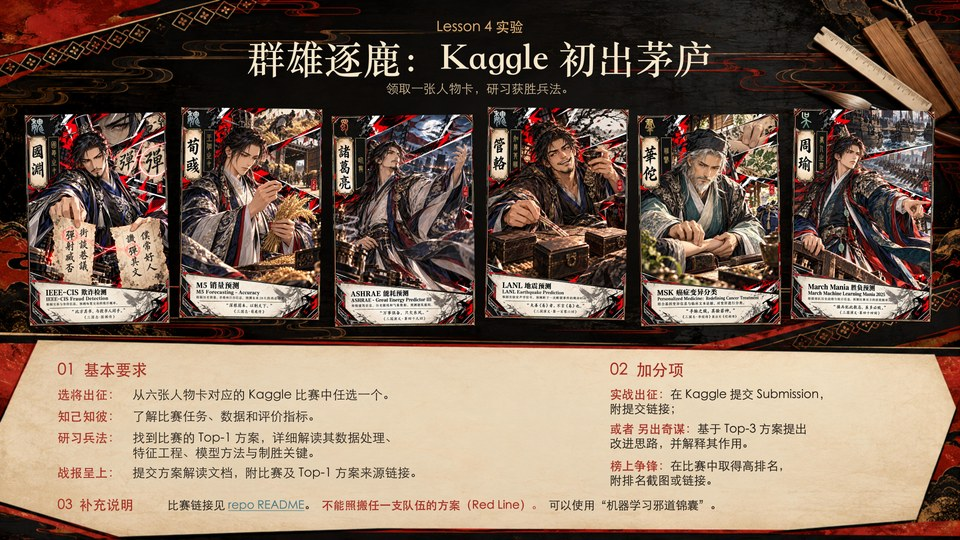
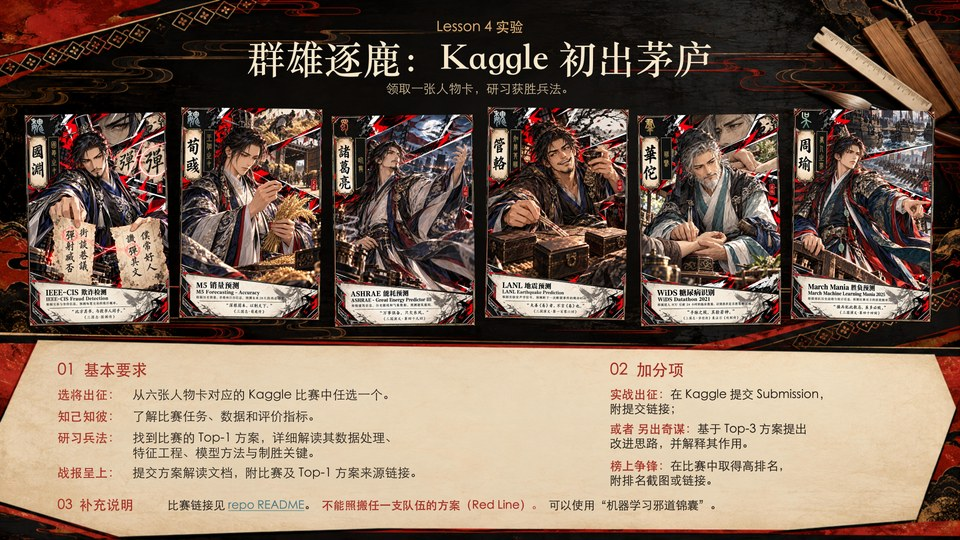
更新 Lesson 4 WiDS 海报并恢复实验入口

Changed region(s): [[0.6562, 0.2074, 0.8125, 0.5926]]

diff --git a/README.md b/README.md
@@ -52,7 +52,6 @@
         <p><strong>基本要求</strong><br>基于公开数据集，分别复现任意 4 个锦囊，比较使用前后的实验结果。</p>
       </td>
     </tr>
-    <!-- Lesson 4 入口暂时隐藏，待医疗比赛替换完成后恢复。
     <tr>
       <td valign="top"><strong>Lesson 4</strong><br><br>群雄逐鹿：<br>Kaggle<br>初出茅庐</td>
       <td align="center" valign="top"><a href="assignments/lab04-poster.jpg"><img src="assignments/lab04-poster-thumb.jpg" width="320" alt="Lab 4 群雄逐鹿：Kaggle 初出茅庐任务海报缩略图"></a></td>
@@ -63,7 +62,6 @@
         <p><strong>相关资料</strong><br><a href="assignments/resources/lab04-kaggle.md">Kaggle 比赛链接和详细规则</a></p>
       </td>
     </tr>
-    -->
     <tr>
       <td valign="top"><strong>Lesson 5</strong><br><br>设计“慢科研”<br>Metrics</td>
       <td align="center" valign="top"><a href="assignments/lab05-poster.jpg"><img src="assignments/lab05-poster-thumb.jpg" width="320" alt="Lab 5 设计慢科研 Metrics 任务海报缩略图"></a></td>
@@ -86,9 +84,9 @@
 <!-- group-progress:start -->
 **各组完成情况一览**（参考数据，更新于 2026-10-23 16:46 · 共 8 次作业）
 
-Lesson 4 暂缓发布，等待更新；其余列仍为上述时间的参考快照。
+Lesson 4 已更新发布，L4 列暂未统计（·）；其余列仍为上述时间的参考快照。
 
-| 组 | L1 | L2 | L3 | 🔒L4 | L5 | 🔒L6 | 🔒L7 | 🔒L8 |
+| 组 | L1 | L2 | L3 | L4 | L5 | 🔒L6 | 🔒L7 | 🔒L8 |
 |---|---|---|---|---|---|---|---|---|
 | 01 | 🟢 | 🟢 | 🟢 | · | ⚪ | · | · | · |
 | 02 | 🟢 | 🟢 | 🟢 | · | ⚪ | · | · | · |

diff --git a/assignments/resources/lab04-kaggle.md b/assignments/resources/lab04-kaggle.md
@@ -11,8 +11,6 @@
 | 华佗 | WiDS 糖尿病识别 | [WiDS Datathon 2021](https://www.kaggle.com/competitions/widsdatathon2021) |
 | 周瑜 | March Mania 胜负预测 | [March Machine Learning Mania 2025](https://www.kaggle.com/competitions/march-machine-learning-mania-2025) |
 
-华佗卡对应比赛已更换为 **WiDS Datathon 2021**；已发布海报中的旧比赛信息待换图更新。
-
 ## 去哪里找方案
 
 进入比赛后，先在 **Private Leaderboard** 核对队伍名次，再到 **Discussion** 和 **Code** 查找对应队伍的方案说明与代码。解读文档中保留实际采用的方案来源链接。
